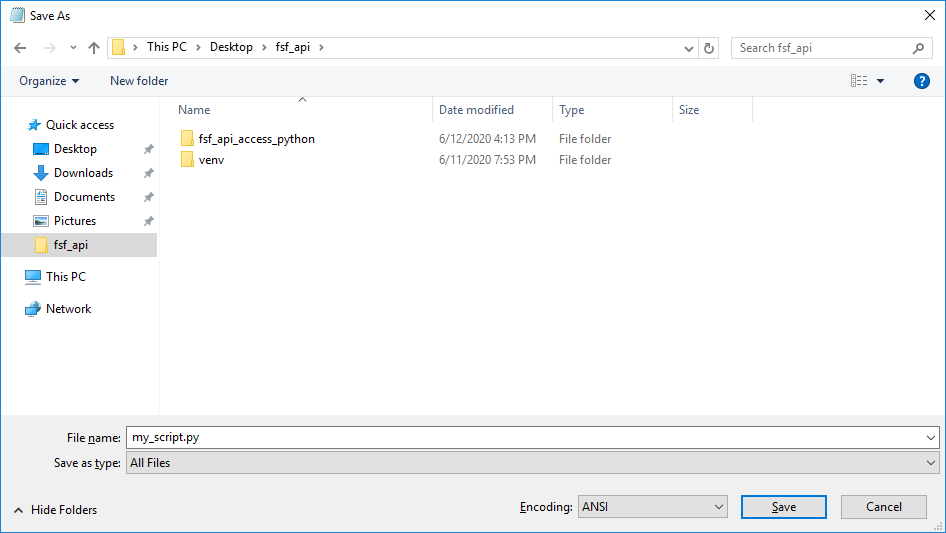
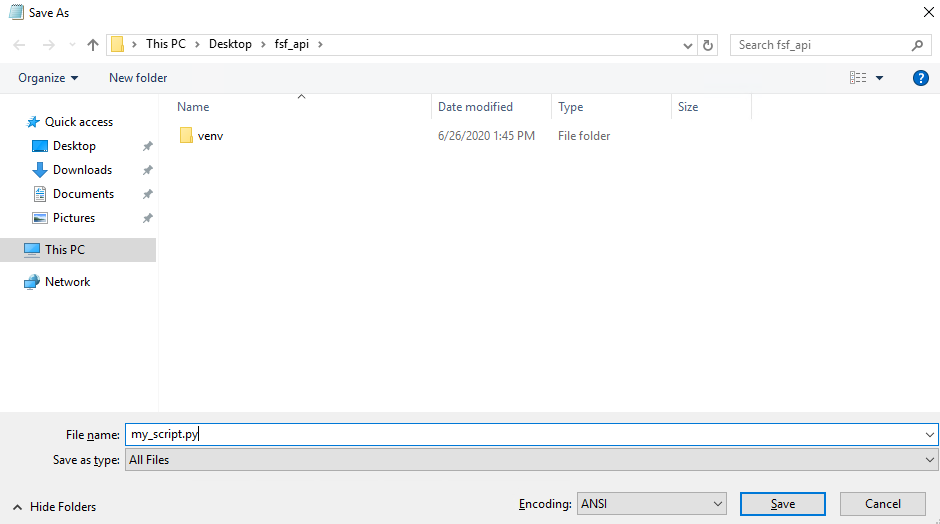
Update doc with updated images

diff --git a/README.md b/README.md
@@ -45,11 +45,7 @@ Current release: 0.1.1
     
     ![Screenshot](https://raw.githubusercontent.com/FirstStreet/fsf_api_access_python/master/doc/images//1.1.4.png)
     
-2. Install the source code manager [Git]
-
-    ![Screenshot](https://raw.githubusercontent.com/FirstStreet/fsf_api_access_python/master/doc/images//1.2.3.png)
-    
-3. [Optional] Open a new `powershell console` / `bash terminal` or close and re-open a console and create and activate a new virtual environment in the project directory:
+2. [Optional] Open a new `powershell console` / `bash terminal` or close and re-open a console and create and activate a new virtual environment in the project directory:
     ```sh
     python -m venv /path/to/new/virtual/environment
    
@@ -62,7 +58,7 @@ Current release: 0.1.1
     
     ![Screenshot](https://raw.githubusercontent.com/FirstStreet/fsf_api_access_python/master/doc/images//1.4.2.png)
     
-4. Use pip to install the project
+3. Use pip to install the project
     ```sh
     cd /path/to/project
    
@@ -78,7 +74,6 @@ Current release: 0.1.1
     Example File Structure:
     
     .
-    ├── fsf_api_access_python.
     ├── venv
     ├── my_script.py
 
@@ -106,6 +101,7 @@ Current release: 0.1.1
 2. Open/Re-open a `powershell console` / `bash terminal` and navigate to the project directory. Next, call one of the methods described below in the `Products` section through the command line. See the `Examples` section for more examples.
     ```sh
     cd /path/to/project
+   
     python -m firststreet -p <product>.<product_subtype> -i <fsids> -f <file_name> -l <lookup_type>
     ```
     
